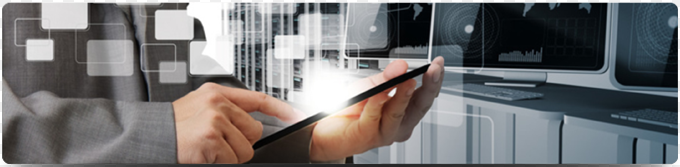
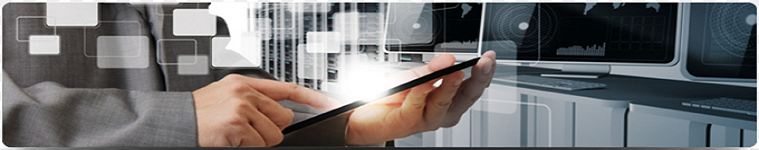
Depois de adicionado adRotator pagina na pagina foi criado o menu

diff --git a/web/informatica/App_Themes/informatica/mam.css b/web/informatica/App_Themes/informatica/mam.css
@@ -15,12 +15,17 @@
 
    #Cabesalho{
        height:150px;
-   }
+       width: 759px;
+}
+      
    #Menu{
-
+       
        border:2px solid #ffffff;
        height:22px;
        margin-top:1px;
+      
+
+     
    }
    #ColunaEsquerda{
 
@@ -50,4 +55,10 @@
        clear:both;
        margin-top:5px;
        text-align:center;
+   }
+
+   Aling_img{
+       align-items:center;
+      
+      
    }

diff --git a/web/informatica/informatica.Master.designer.cs b/web/informatica/informatica.Master.designer.cs
@@ -49,6 +49,51 @@ namespace informatica {
         protected global::System.Web.UI.WebControls.XmlDataSource XmlDataSource1;
         
         /// <summary>
+        /// ImageButton1 control.
+        /// </summary>
+        /// <remarks>
+        /// Auto-generated field.
+        /// To modify move field declaration from designer file to code-behind file.
+        /// </remarks>
+        protected global::System.Web.UI.WebControls.ImageButton ImageButton1;
+        
+        /// <summary>
+        /// ImageButton2 control.
+        /// </summary>
+        /// <remarks>
+        /// Auto-generated field.
+        /// To modify move field declaration from designer file to code-behind file.
+        /// </remarks>
+        protected global::System.Web.UI.WebControls.ImageButton ImageButton2;
+        
+        /// <summary>
+        /// ImageButton3 control.
+        /// </summary>
+        /// <remarks>
+        /// Auto-generated field.
+        /// To modify move field declaration from designer file to code-behind file.
+        /// </remarks>
+        protected global::System.Web.UI.WebControls.ImageButton ImageButton3;
+        
+        /// <summary>
+        /// ImageButton4 control.
+        /// </summary>
+        /// <remarks>
+        /// Auto-generated field.
+        /// To modify move field declaration from designer file to code-behind file.
+        /// </remarks>
+        protected global::System.Web.UI.WebControls.ImageButton ImageButton4;
+        
+        /// <summary>
+        /// ImageButton5 control.
+        /// </summary>
+        /// <remarks>
+        /// Auto-generated field.
+        /// To modify move field declaration from designer file to code-behind file.
+        /// </remarks>
+        protected global::System.Web.UI.WebControls.ImageButton ImageButton5;
+        
+        /// <summary>
         /// ContentPlaceHolder3 control.
         /// </summary>
         /// <remarks>

diff --git a/web/informatica/informatica.Master.cs b/web/informatica/informatica.Master.cs
@@ -11,7 +11,7 @@ namespace informatica
     {
         protected void Page_Load(object sender, EventArgs e)
         {
-
+            // AdRotator1.KeywordFilter = "categoria1";
         }
     }
 }
